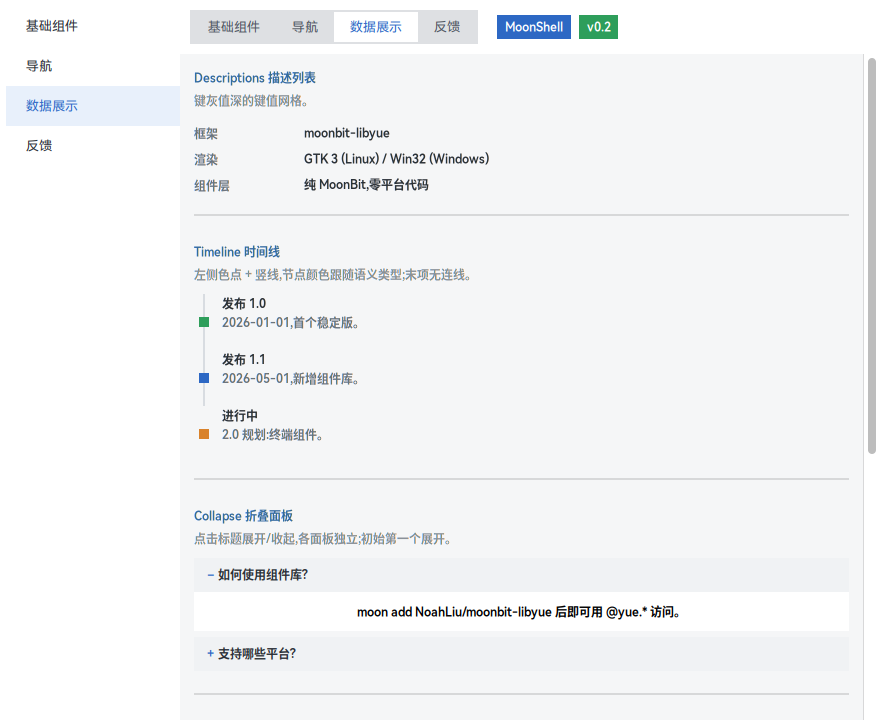
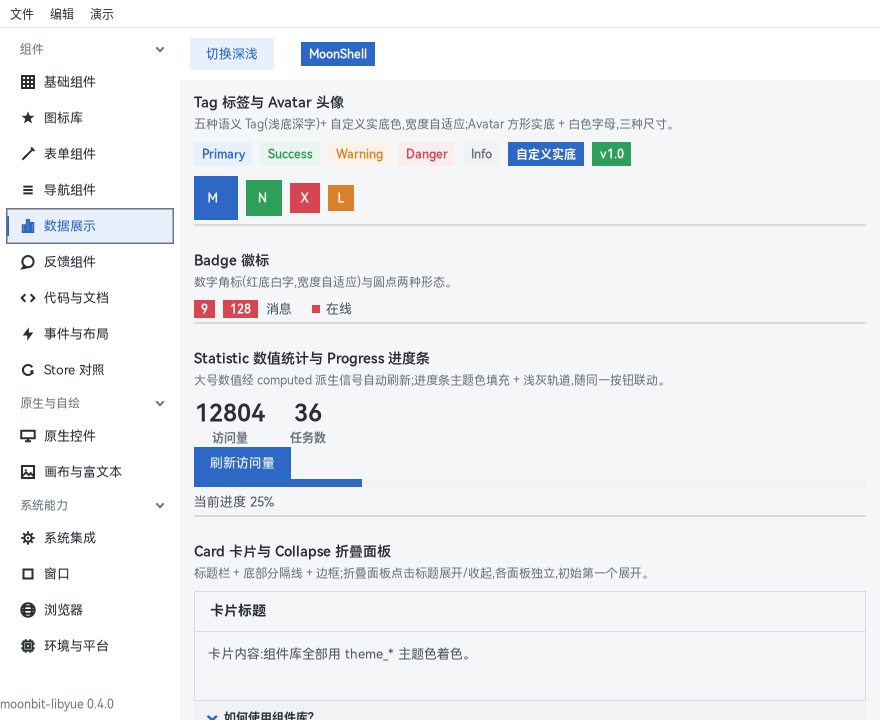
【新增】五分钟上手教程(面向 MoonBit 新手,中英):moon new 到窗口跑起来全步骤实测,避开三新手坑(入口文件须 main.mbt/moon.mod 改 native/moon.pkg 的 is-main 与 DSL 格式 import),附官方 MoonBit 教程(中文 zh-cn)与交互式 Tour 链接;docs 索引置顶,仓库 README 三大特色后给入口;组件文档四张截图重截(旧图为五组侧栏时代)

diff --git a/docs/tutorial.md b/docs/tutorial.md
@@ -1,0 +1,116 @@
+# Five-Minute Tutorial (for MoonBit newcomers)
+
+No MoonBit experience required — programming basics in any language will do. This tutorial builds a desktop app from scratch: a window, a button, and a counter that refreshes itself on click. Every step was verified on Ubuntu 24.04 with moon 0.1.20260911.
+
+## 1. Install the toolchain (once)
+
+**MoonBit toolchain** (moon is its official build tool):
+
+```sh
+# Linux / macOS
+curl -fsSL https://cli.moonbitlang.com/install/unix.sh | bash
+# Windows (PowerShell)
+irm https://cli.moonbitlang.com/install/powershell.ps1 | iex
+```
+
+**Linux also needs the GTK system libraries** (Ubuntu 24.04, one line):
+
+```sh
+sudo apt install build-essential cmake pkg-config \
+  libgtk-3-dev libpango1.0-dev libfontconfig1-dev libx11-dev libwebkit2gtk-4.1-dev
+```
+
+For the Windows MSVC setup see the collapsed section under "Quick start" in the repository README.
+
+## 2. Create the project (three newcomer pitfalls, avoided)
+
+```sh
+moon new my_app
+cd my_app
+moon add NoahLiu/moonbit-libyue
+```
+
+The generated project needs three manual adjustments — all verified the hard way:
+
+**① In `moon.mod`: change `preferred_target = "wasm"` to `"native"`**
+This library goes through native FFI and only supports the native backend; otherwise the build fails with `ffi_* is unbound`.
+
+**② Rename the entry file: `my_app.mbt` → `main.mbt`**
+The current moon only recognizes `main.mbt` as the program entry; the template's default file name fails with `Missing main function`.
+
+**③ Replace `moon.pkg` entirely with** (note: this is moon's DSL format, not JSON):
+
+```
+import {
+  "NoahLiu/moonbit-libyue/yue",
+}
+
+options(
+  "is-main": true,
+)
+```
+
+`import` makes the component library reachable as `@yue.*`; `is-main` marks this package as the executable entry.
+
+## 3. The first window
+
+Replace `main.mbt` entirely with:
+
+```moonbit
+fn main {
+  if !@yue.initialize() {
+    return
+  }
+  let clicks = @yue.Signal::new(0)
+  let _ = @yue.mount_window(
+    [
+      @yue.label("Hello, MoonBit + libyue!", style=[("margin", 20.0)]),
+      @yue.button("Click me", on_click=fn() { clicks.update(fn(n) { n + 1 }) }),
+      @yue.bind(clicks, fn(n) { "Clicked \{n} times" }),
+      @yue.button("Quit", on_click=fn() { @yue.quit() }),
+    ],
+    title="Tutorial",
+    size=Some((360.0, 220.0)),
+    center=true,
+    on_close=fn(_w) { @yue.quit() },
+  )
+  @yue.run()
+}
+```
+
+```sh
+moon run .
+```
+
+A window appears: a label, a button; click the button and the "Clicked N times" line updates by itself — that is **reactive signals**: state changes propagate to bound views automatically, no "on click, set that label" glue. `mount_window` takes an array of nodes and **declaratively** describes the UI.
+
+## 4. MoonBit syntax in five rows (only what the code above uses)
+
+| Syntax | Meaning |
+|---|---|
+| `fn main { ... }` | Program entry |
+| `if !cond { return }` | Early return; `!` is logical not |
+| `let clicks = ...` | Immutable binding (mutable would be `let mut`, unused here) |
+| `fn(n) { n + 1 }` | Anonymous function (lambda), passed as a callback |
+| `on_click=fn() { ... }` | Named argument: parameters with defaults are passed by name |
+| `"Clicked \{n} times"` | String interpolation; `\{expression}` embeds any value |
+| `Some((360.0, 220.0))` | The "present" form of an optional value; `None` means absent |
+
+Learn the rest (pattern matching, structs, traits) from the official **[MoonBit tutorial](https://docs.moonbitlang.com/en/latest/tutorial/index.html)** (Chinese version [here](https://docs.moonbitlang.com/zh-cn/latest/tutorial/index.html)), or play through the interactive **[Tour of MoonBit](https://tour.moonbitlang.com)** in your browser.
+
+## 5. Next steps
+
+- **Theming in one line**: `@yue.theme_apply({ ..@yue.default_theme(), primary: "#1E4FA3" })`; light/dark system following in [components-ui.md](https://github.com/lb091188/moonbit-libyue/blob/master/docs/components-ui.md)
+- **The full widget gallery**: clone this repository and `moon run examples/showcase` — a 15-page demo board; each page's source is a standalone file (`examples/showcase/pages_*.mbt`), the best copy-paste material
+- **Go deeper**: declarative nodes & reactive bindings in [declarative.md](https://github.com/lb091188/moonbit-libyue/blob/master/docs/declarative.md), layout style keys in [layout.md](https://github.com/lb091188/moonbit-libyue/blob/master/docs/layout.md), widget API reference in [components.md](https://github.com/lb091188/moonbit-libyue/blob/master/docs/components.md)
+
+## FAQ
+
+| Symptom | Cause & fix |
+|---|---|
+| `ffi_* is unbound` | `preferred_target` in `moon.mod` not changed to `"native"` |
+| `Missing main function` | Entry file not named `main.mbt`, or `options("is-main": true)` missing in `moon.pkg` |
+| `Package "yue" not found` | `import` section of `moon.pkg` missing `"NoahLiu/moonbit-libyue/yue"` |
+| Missing GTK libraries on Linux | apt list in step 1 not fully installed |
+| `moon run my_app` says path not found | The root package is run with `moon run .` |
+| Code changes not taking effect | After native-layer (shim/vendor) changes force a relink, see [relink.md](https://github.com/lb091188/moonbit-libyue/blob/master/docs/relink.md) |

diff --git a/docs/zh/tutorial.md b/docs/zh/tutorial.md
@@ -1,0 +1,118 @@
+# 五分钟上手教程(面向 MoonBit 新手)
+
+不需要会 MoonBit——有任意一门语言的编程基础即可。本教程从零建一个桌面应用:一个窗口、一个按钮、一个随点击自动刷新的计数。全部步骤在 Ubuntu 24.04 + moon 0.1.20260911 实测通过。
+
+## 1. 准备工具(一次性)
+
+**MoonBit 工具链**(moon 是它的官方构建工具):
+
+```sh
+# Linux / macOS
+curl -fsSL https://cli.moonbitlang.com/install/unix.sh | bash
+# Windows (PowerShell)
+irm https://cli.moonbitlang.com/install/powershell.ps1 | iex
+```
+
+**Linux 还需要 GTK 系统库**(Ubuntu 24.04 一行):
+
+```sh
+sudo apt install build-essential cmake pkg-config \
+  libgtk-3-dev libpango1.0-dev libfontconfig1-dev libx11-dev libwebkit2gtk-4.1-dev
+```
+
+Windows 的 MSVC 环境准备见仓库 README「快速开始」的折叠段。
+
+## 2. 建工程(三个新手坑逐一避开)
+
+```sh
+moon new my_app
+cd my_app
+moon add NoahLiu/moonbit-libyue
+```
+
+`moon new` 生成的工程需要三处手工调整——都是实测踩过的坑:
+
+**① `moon.mod`:把 `preferred_target = "wasm"` 改为 `"native"`**
+本库走原生 FFI,只支持 native 后端;不改会在编译期报 `ffi_* is unbound`。
+
+**② 入口文件改名:`my_app.mbt` → `main.mbt`**
+当前版本的 moon 只把名为 `main.mbt` 的文件识别为程序入口;用模板默认文件名会报 `Missing main function`。
+
+**③ `moon.pkg` 整个替换为**(注意这是 moon 的 DSL 格式,不是 JSON):
+
+```
+import {
+  "NoahLiu/moonbit-libyue/yue",
+}
+
+options(
+  "is-main": true,
+)
+```
+
+`import` 让代码里能用 `@yue.*` 访问组件库;`is-main` 声明本包是可执行入口。
+
+## 3. 第一个窗口
+
+把 `main.mbt` 整个替换为:
+
+```moonbit
+fn main {
+  if !@yue.initialize() {
+    return
+  }
+  let clicks = @yue.Signal::new(0)
+  let _ = @yue.mount_window(
+    [
+      @yue.label("Hello, MoonBit + libyue!", style=[("margin", 20.0)]),
+      @yue.button("点我", on_click=fn() { clicks.update(fn(n) { n + 1 }) }),
+      @yue.bind(clicks, fn(n) { "已点 \{n} 次" }),
+      @yue.button("退出", on_click=fn() { @yue.quit() }),
+    ],
+    title="教程示例",
+    size=Some((360.0, 220.0)),
+    center=true,
+    on_close=fn(_w) { @yue.quit() },
+  )
+  @yue.run()
+}
+```
+
+```sh
+moon run .
+```
+
+窗口出现:一个标签、一个按钮;点按钮,中间那行「已点 N 次」自动 +1——这就是**信号响应式**:状态变化时绑定处自动刷新,不写「点击后改文本」的胶水代码。`mount_window` 接收一个节点数组,**声明式**描述界面;`label`/`button` 的样式随时可换成组件库主题件(见「下一步」)。
+
+## 4. MoonBit 语法速览(只覆盖上面代码用到的)
+
+| 语法 | 含义 |
+|---|---|
+| `fn main { ... }` | 程序入口 |
+| `if !cond { return }` | 提前返回;`!` 是逻辑非 |
+| `let clicks = ...` | 不可变绑定(可变用 `let mut`,本示例用不到) |
+| `fn(n) { n + 1 }` | 匿名函数(lambda),作回调传入 |
+| `on_click=fn() { ... }` | 命名实参:带默认值的参数按名传递 |
+| `"已点 \{n} 次"` | 字符串插值,`\{表达式}` 嵌入任意值 |
+| `Some((360.0, 220.0))` | 可选值的「有值」形态;对应 `None` 表示缺省 |
+
+其余语法(match 模式匹配、结构体、trait)用到时再查,不影响跑通本教程。
+
+**系统学 MoonBit**:官方中文教程 [docs.moonbitlang.com/zh-cn/latest/tutorial](https://docs.moonbitlang.com/zh-cn/latest/tutorial/index.html)(英文版 [tutorial](https://docs.moonbitlang.com/en/latest/tutorial/index.html));偏好交互式边玩边学的,官方 [Tour of MoonBit](https://tour.moonbitlang.com) 在浏览器里逐课演练。
+
+## 5. 下一步
+
+- **换肤一行**:`@yue.theme_apply({ ..@yue.default_theme(), primary: "#1E4FA3" })`,深浅跟随系统见 [components-ui.md](https://gitee.com/noahliu0911/moonbit-libyue/blob/master/docs/zh/components-ui.md) 的「定制主题」
+- **组件大全**:`git clone` 本仓库后 `moon run examples/showcase`,15 页演示板对着抄;每页源码独立成文件(`examples/showcase/pages_*.mbt`),是最好的复制粘贴素材库
+- **系统学习**:声明式节点与响应式绑定看 [declarative.md](https://gitee.com/noahliu0911/moonbit-libyue/blob/master/docs/zh/declarative.md),布局样式键全集看 [layout.md](https://gitee.com/noahliu0911/moonbit-libyue/blob/master/docs/zh/layout.md),组件 API 速查看 [components.md](https://gitee.com/noahliu0911/moonbit-libyue/blob/master/docs/zh/components.md)
+
+## 常见问题
+
+| 现象 | 原因与修法 |
+|---|---|
+| `ffi_* is unbound` | `moon.mod` 的 `preferred_target` 没改成 `"native"` |
+| `Missing main function` | 入口文件没叫 `main.mbt`,或 `moon.pkg` 少 `options("is-main": true)` |
+| `Package "yue" not found` | `moon.pkg` 的 `import` 段没加 `"NoahLiu/moonbit-libyue/yue"` |
+| Linux 报 GTK 库缺失 | 第 1 节的 apt 清单没装全 |
+| `moon run my_app` 报找不到路径 | 根包用 `moon run .` |
+| 改了代码没生效 | 原生层(shim/vendor)变更后需强制重链,见 [relink.md](https://gitee.com/noahliu0911/moonbit-libyue/blob/master/docs/zh/relink.md) |

diff --git a/docs/README.md b/docs/README.md
@@ -2,6 +2,7 @@
 
 | Document | Content |
 |---|---|
+| [tutorial.md](https://github.com/lb091188/moonbit-libyue/blob/master/docs/tutorial.md) | Five-minute tutorial for MoonBit newcomers: from `moon new` to a running window, with the three newcomer pitfalls resolved; includes links to the official MoonBit tutorial & Tour |
 | [adaptation.md](https://github.com/lb091188/moonbit-libyue/blob/master/docs/adaptation.md) | Platform adaptation experience: real-world pitfalls per platform, root causes, and verification conclusions (continuously updated) |
 | [components.md](https://github.com/lb091188/moonbit-libyue/blob/master/docs/components.md) | Component API quick reference: both classic setter and `X::make` props styles, including upstream pitfalls |
 | [declarative.md](https://github.com/lb091188/moonbit-libyue/blob/master/docs/declarative.md) | Declarative UI: `Node`/`mount` render tree + `Store`/`Signal` reactive bindings (signals: computed with automatic dependency tracking + batch) |

diff --git a/docs/zh/README.md b/docs/zh/README.md
@@ -2,6 +2,7 @@
 
 | 文档 | 内容 |
 |---|---|
+| [tutorial.md](https://gitee.com/noahliu0911/moonbit-libyue/blob/master/docs/zh/tutorial.md) | 五分钟上手教程(面向 MoonBit 新手):从 `moon new` 到窗口跑起来,三个新手坑逐一避开;附官方 MoonBit 教程与 Tour 链接 |
 | [adaptation.md](https://gitee.com/noahliu0911/moonbit-libyue/blob/master/docs/zh/adaptation.md) | 平台适配经验:各平台实测坑、根因与验证结论(持续更新) |
 | [components.md](https://gitee.com/noahliu0911/moonbit-libyue/blob/master/docs/zh/components.md) | 组件 API 速查:经典 setter 与 `X::make` props 两种写法,含上游坑 |
 | [declarative.md](https://gitee.com/noahliu0911/moonbit-libyue/blob/master/docs/zh/declarative.md) | 声明式 UI:`Node`/`mount` 渲染树 + `Store`/`Signal` 响应式绑定(信号 computed 自动依赖收集 + batch) |

diff --git a/README.md b/README.md
@@ -38,6 +38,8 @@ let clicks = @yue.Signal::new(0)
 
 The three compose freely: the themed library is the recommended front door (unified look), while libyue native widgets and the imperative style remain fully available.
 
+> **New to MoonBit?** Start with the [five-minute tutorial](https://github.com/lb091188/moonbit-libyue/blob/master/docs/tutorial.md): from `moon new` to a running window, with links to the official MoonBit tutorial and the interactive Tour.
+
 ## Quick start
 
 ```sh

diff --git a/README_ZH.md b/README_ZH.md
@@ -38,6 +38,8 @@ let clicks = @yue.Signal::new(0)
 
 三者可单独用也可叠加：主题组件库是对外唯一窗口（统一视觉），libyue 原生控件与命令式写法同样保留。
 
+> **不会 MoonBit？** 看 [五分钟上手教程](https://gitee.com/noahliu0911/moonbit-libyue/blob/master/docs/zh/tutorial.md)：从 `moon new` 到窗口跑起来，附官方 MoonBit 教程与交互式 Tour 链接。
+
 ## 快速开始
 
 ```sh
